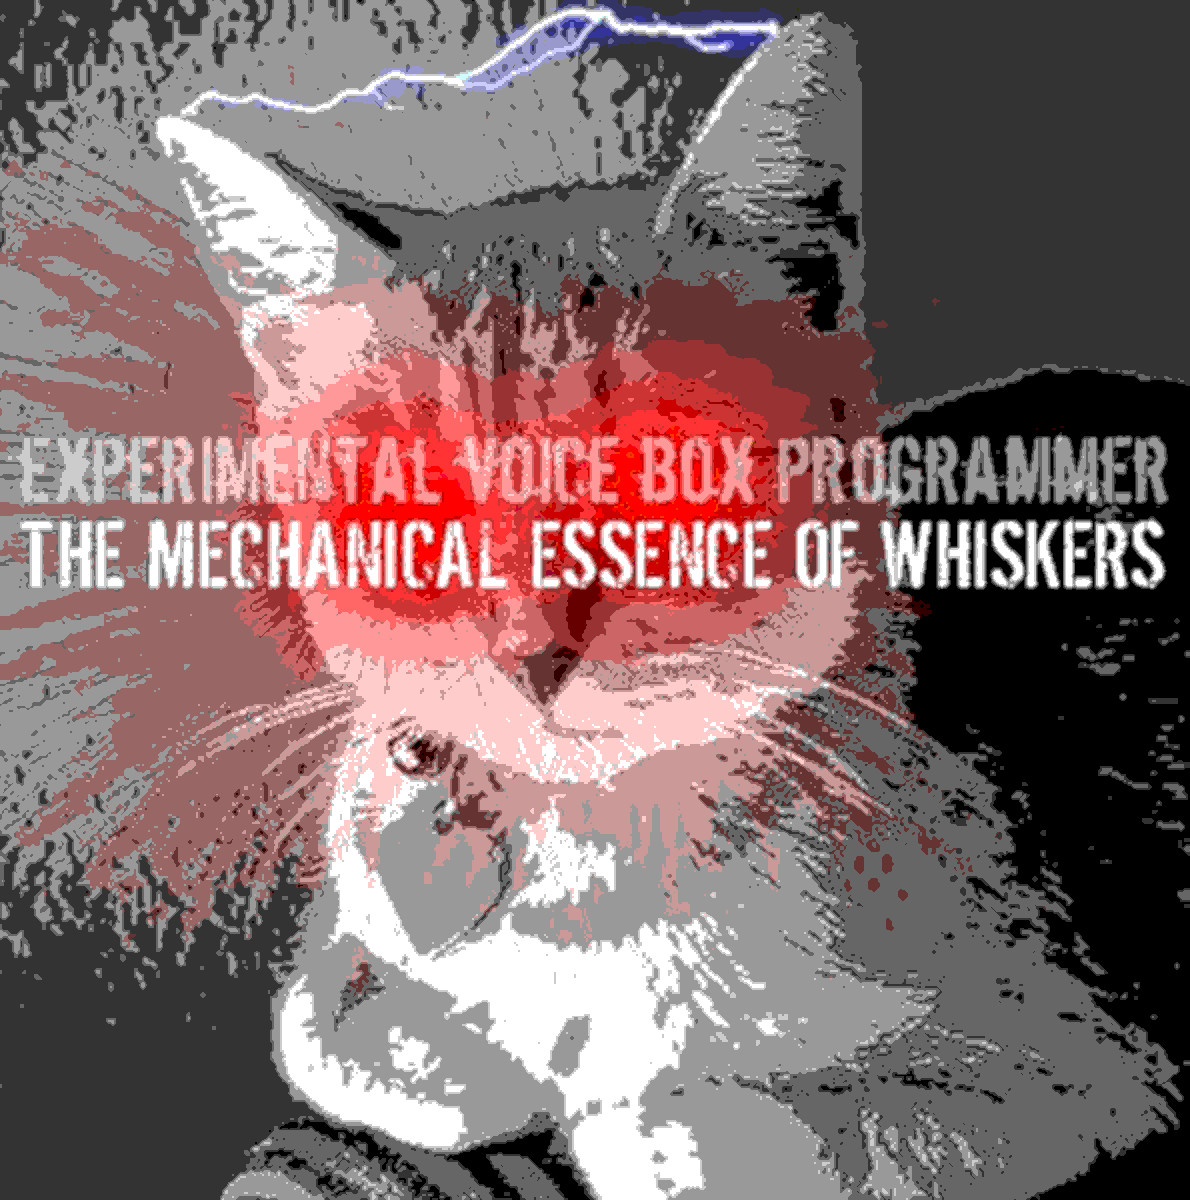
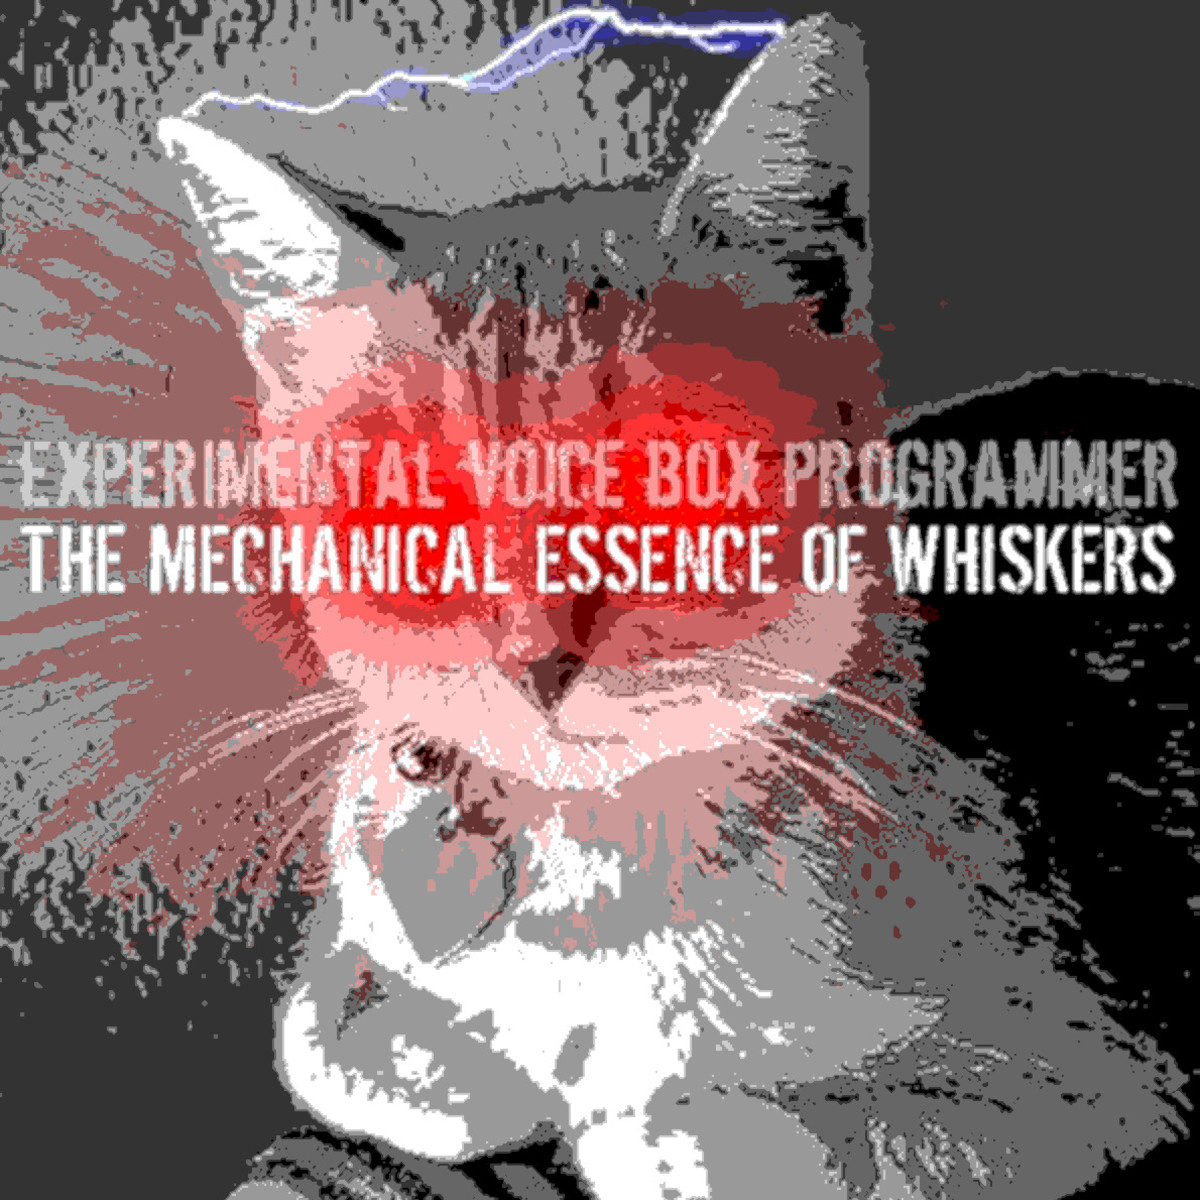
task - made some tweaks to the flex styling of the album container elements

diff --git a/src/components/AlbumContainer/index.tsx b/src/components/AlbumContainer/index.tsx
@@ -46,22 +46,24 @@ const AlbumContainer: FC<IAlbumContainerProps> = (
         </div>
       </div>
       <div className="info">
-        <h2 className="title">
-          {title} <span className="release-type">({type})</span>
-        </h2>
-        <p className="release-date">{releaseDate}</p>
-        <p className="credits">{credits}</p>
-        <ol className="track-listing">
-          {trackList.map((track: string) => (
-            <li key={track}>{track}</li>
-          ))}
-        </ol>
-        <div className="links-in-info" data-testid="links-in-info">
-          {links.map(({ url, title }: IUrlLink, index: number) => (
-            <a key={index} href={url} rel="noopener noreferrer">
-              {title}
-            </a>
-          ))}
+        <div className="album-details">
+          <h2 className="title">
+            {title} <span className="release-type">({type})</span>
+          </h2>
+          <p className="release-date">{releaseDate}</p>
+          <p className="credits">{credits}</p>
+          <ol className="track-listing">
+            {trackList.map((track: string) => (
+              <li key={track}>{track}</li>
+            ))}
+          </ol>
+          <div className="links-in-info" data-testid="links-in-info">
+            {links.map(({ url, title }: IUrlLink, index: number) => (
+              <a key={index} href={url} rel="noopener noreferrer">
+                {title}
+              </a>
+            ))}
+          </div>
         </div>
       </div>
     </div>

diff --git a/src/components/AlbumContainer/index.less b/src/components/AlbumContainer/index.less
@@ -1,10 +1,12 @@
 .album-container {
+  align-items: center;
   background: #d3d3d3;
   border: 3px outset #ccc;
   color: #333;
   display: flex;
   flex-direction: column;
-  padding: 1px;
+  justify-content: center;
+  // padding: 1px;
 
   h2,
   p {
@@ -20,7 +22,7 @@
     img {
       display: block;
       height: auto;
-      max-width: 334px; // 100%;
+      max-width: 100%; // 100%;
     }
   }
 
@@ -28,6 +30,7 @@
     font-size: 14px;
     padding: 8px;
     text-align: left;
+    width: 90%;
 
     .release-type {
       font-style: italic;
@@ -50,23 +53,32 @@
 
 @media screen and (width >= 481px) {
   .album-container {
+    align-items: flex-start;
     flex-direction: row;
+    justify-content: flex-start;
+
+    .info {
+      padding-left: 16px;
+    }
 
     .top {
       display: flex;
       flex-direction: column;
-      width: 50%;
+      // min-width: 50%;
+      // width: 50%;
     }
 
     .cover {
       display: block;
       flex-shrink: 0;
+      max-width: 350px;
       width: 100%;
 
       img {
         display: block;
         height: auto;
-        max-width: 100%;
+        max-width: 250px;
+        min-width: 250px;
       }
     }
 
@@ -83,6 +95,15 @@
 
 @media screen and (width >= 769px) {
   .album-container {
+    max-width: 768px;
+
+    .cover {
+      img {
+        max-width: 350px;
+        min-width: 350px;
+      }
+    }
+
     .track-listing {
       column-count: 2;
       column-gap: 50px;
